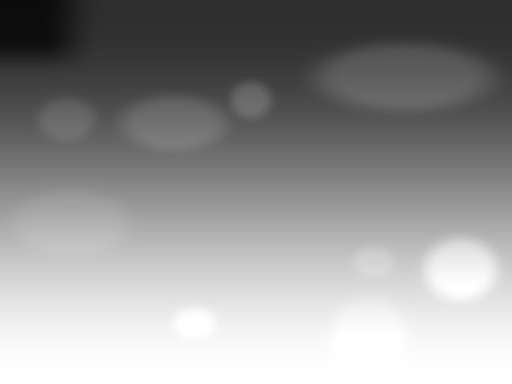
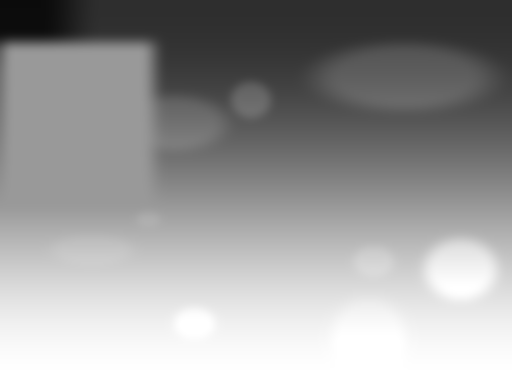
Η εταιρεία: step 1 is the first sketch on an iMac, photo, marker, depth map and copy

Changed region(s): [[0.0, 0.0938, 0.3125, 0.4688]]

diff --git a/src/i18n/pages/about.ts b/src/i18n/pages/about.ts
@@ -17,10 +17,10 @@ export const aboutText = {
      * four numbered points listed beside it (`lead` in bold, then `text`).
      */
     workbench: {
-      alt: 'Το τραπέζι εργασίας του τυπογραφείου: ένα σκίτσο λογοτύπου σε μπλοκ, τρεις τυπωμένες προτάσεις, δείγματα χρωμάτων και ένα δοκιμαστικό, ανάμεσα σε έτοιμες δουλειές: κάρτες, μπλουζάκι, κούπα, αυτοκόλλητα, πανό, ανάγλυφο προσκλητήριο, 3D εκτυπώσεις και μια ανάρτηση στο κινητό.',
+      alt: 'Το τραπέζι εργασίας του τυπογραφείου: ένα iMac με το πρώτο σχέδιο ενός λογοτύπου στην οθόνη, τρεις τυπωμένες προτάσεις, δείγματα χρωμάτων και ένα δοκιμαστικό, ανάμεσα σε έτοιμες δουλειές: κάρτες, μπλουζάκι, κούπα, αυτοκόλλητα, πανό, ανάγλυφο προσκλητήριο, 3D εκτυπώσεις και μια ανάρτηση στο κινητό.',
       stepsLabel: 'Από το σκίτσο στο δοκιμαστικό',
       steps: [
-        { lead: 'Η πρώτη ιδέα,', text: 'με μολύβι, πάνω στο τραπέζι.' },
+        { lead: 'Η πρώτη ιδέα,', text: 'σχεδιασμένη στον υπολογιστή.' },
         { lead: 'Προτάσεις', text: 'για το σήμα σας, σε χαρτί.' },
         { lead: 'Τα χρώματα', text: 'που διαλέγουμε μαζί.' },
         { lead: 'Το δοκιμαστικό', text: 'που εγκρίνετε πριν τυπώσουμε.' },

diff --git a/CONTENT_REVIEW.md b/CONTENT_REVIEW.md
@@ -241,29 +241,29 @@ Every Greek string on the site that is **not** the owner’s own wording, for th
 
 ## `src/i18n/pages/about.ts` — `aboutText`
 
-| Key                                | Text                                                                                                                                                                                                                                                                               |
-| ---------------------------------- | ---------------------------------------------------------------------------------------------------------------------------------------------------------------------------------------------------------------------------------------------------------------------------------- |
-| `metaTitle`                        | Η εταιρεία: διαφήμιση & εκτυπώσεις                                                                                                                                                                                                                                                 |
-| `metaDescription`                  | Η ΔΙΑΤΥΠΩΣΗ δίνει μορφή στις ιδέες σας με λύσεις διαφήμισης, εκτύπωσης και προβολής, με ποιότητα, συνέπεια και προσωπική εξυπηρέτηση. Γνωρίστε μας.                                                                                                                                |
-| `headerLabel`                      | Η εταιρεία                                                                                                                                                                                                                                                                         |
-| `headerTitle`                      | Από την ιδέα στο χαρτί, μαζί σας                                                                                                                                                                                                                                                   |
-| `approachHeading`                  | Πώς δουλεύουμε                                                                                                                                                                                                                                                                     |
-| `workbench.alt`                    | Το τραπέζι εργασίας του τυπογραφείου: ένα σκίτσο λογοτύπου σε μπλοκ, τρεις τυπωμένες προτάσεις, δείγματα χρωμάτων και ένα δοκιμαστικό, ανάμεσα σε έτοιμες δουλειές: κάρτες, μπλουζάκι, κούπα, αυτοκόλλητα, πανό, ανάγλυφο προσκλητήριο, 3D εκτυπώσεις και μια ανάρτηση στο κινητό. |
-| `workbench.stepsLabel`             | Από το σκίτσο στο δοκιμαστικό                                                                                                                                                                                                                                                      |
-| `workbench.steps[0].lead`          | Η πρώτη ιδέα,                                                                                                                                                                                                                                                                      |
-| `workbench.steps[0].text`          | με μολύβι, πάνω στο τραπέζι.                                                                                                                                                                                                                                                       |
-| `workbench.steps[1].lead`          | Προτάσεις                                                                                                                                                                                                                                                                          |
-| `workbench.steps[1].text`          | για το σήμα σας, σε χαρτί.                                                                                                                                                                                                                                                         |
-| `workbench.steps[2].lead`          | Τα χρώματα                                                                                                                                                                                                                                                                         |
-| `workbench.steps[2].text`          | που διαλέγουμε μαζί.                                                                                                                                                                                                                                                               |
-| `workbench.steps[3].lead`          | Το δοκιμαστικό                                                                                                                                                                                                                                                                     |
-| `workbench.steps[3].text`          | που εγκρίνετε πριν τυπώσουμε.                                                                                                                                                                                                                                                      |
-| `valuesLabel`                      | Οι αξίες μας                                                                                                                                                                                                                                                                       |
-| `valuesTitle`                      | Ό,τι μας καθοδηγεί σε κάθε δουλειά                                                                                                                                                                                                                                                 |
-| `valueNotes.Ποιότητα`              | Προσέχουμε την πρώτη ύλη, το χρώμα και κάθε λεπτομέρεια, ώστε το αποτέλεσμα να σας εκπροσωπεί σωστά.                                                                                                                                                                               |
-| `valueNotes.Συνέπεια`              | Τηρούμε ό,τι συμφωνούμε μαζί σας, από την πρώτη κουβέντα μέχρι την παράδοση.                                                                                                                                                                                                       |
-| `valueNotes.Δημιουργικότητα`       | Αναζητούμε την ιδέα που θα κάνει τη δική σας δουλειά να ξεχωρίζει.                                                                                                                                                                                                                 |
-| `valueNotes.Προσωπική εξυπηρέτηση` | Σας ακούμε και σας συμβουλεύουμε σε κάθε βήμα, για κάθε δουλειά, μικρή ή μεγάλη.                                                                                                                                                                                                   |
+| Key                                | Text                                                                                                                                                                                                                                                                                                       |
+| ---------------------------------- | ---------------------------------------------------------------------------------------------------------------------------------------------------------------------------------------------------------------------------------------------------------------------------------------------------------- |
+| `metaTitle`                        | Η εταιρεία: διαφήμιση & εκτυπώσεις                                                                                                                                                                                                                                                                         |
+| `metaDescription`                  | Η ΔΙΑΤΥΠΩΣΗ δίνει μορφή στις ιδέες σας με λύσεις διαφήμισης, εκτύπωσης και προβολής, με ποιότητα, συνέπεια και προσωπική εξυπηρέτηση. Γνωρίστε μας.                                                                                                                                                        |
+| `headerLabel`                      | Η εταιρεία                                                                                                                                                                                                                                                                                                 |
+| `headerTitle`                      | Από την ιδέα στο χαρτί, μαζί σας                                                                                                                                                                                                                                                                           |
+| `approachHeading`                  | Πώς δουλεύουμε                                                                                                                                                                                                                                                                                             |
+| `workbench.alt`                    | Το τραπέζι εργασίας του τυπογραφείου: ένα iMac με το πρώτο σχέδιο ενός λογοτύπου στην οθόνη, τρεις τυπωμένες προτάσεις, δείγματα χρωμάτων και ένα δοκιμαστικό, ανάμεσα σε έτοιμες δουλειές: κάρτες, μπλουζάκι, κούπα, αυτοκόλλητα, πανό, ανάγλυφο προσκλητήριο, 3D εκτυπώσεις και μια ανάρτηση στο κινητό. |
+| `workbench.stepsLabel`             | Από το σκίτσο στο δοκιμαστικό                                                                                                                                                                                                                                                                              |
+| `workbench.steps[0].lead`          | Η πρώτη ιδέα,                                                                                                                                                                                                                                                                                              |
+| `workbench.steps[0].text`          | σχεδιασμένη στον υπολογιστή.                                                                                                                                                                                                                                                                               |
+| `workbench.steps[1].lead`          | Προτάσεις                                                                                                                                                                                                                                                                                                  |
+| `workbench.steps[1].text`          | για το σήμα σας, σε χαρτί.                                                                                                                                                                                                                                                                                 |
+| `workbench.steps[2].lead`          | Τα χρώματα                                                                                                                                                                                                                                                                                                 |
+| `workbench.steps[2].text`          | που διαλέγουμε μαζί.                                                                                                                                                                                                                                                                                       |
+| `workbench.steps[3].lead`          | Το δοκιμαστικό                                                                                                                                                                                                                                                                                             |
+| `workbench.steps[3].text`          | που εγκρίνετε πριν τυπώσουμε.                                                                                                                                                                                                                                                                              |
+| `valuesLabel`                      | Οι αξίες μας                                                                                                                                                                                                                                                                                               |
+| `valuesTitle`                      | Ό,τι μας καθοδηγεί σε κάθε δουλειά                                                                                                                                                                                                                                                                         |
+| `valueNotes.Ποιότητα`              | Προσέχουμε την πρώτη ύλη, το χρώμα και κάθε λεπτομέρεια, ώστε το αποτέλεσμα να σας εκπροσωπεί σωστά.                                                                                                                                                                                                       |
+| `valueNotes.Συνέπεια`              | Τηρούμε ό,τι συμφωνούμε μαζί σας, από την πρώτη κουβέντα μέχρι την παράδοση.                                                                                                                                                                                                                               |
+| `valueNotes.Δημιουργικότητα`       | Αναζητούμε την ιδέα που θα κάνει τη δική σας δουλειά να ξεχωρίζει.                                                                                                                                                                                                                                         |
+| `valueNotes.Προσωπική εξυπηρέτηση` | Σας ακούμε και σας συμβουλεύουμε σε κάθε βήμα, για κάθε δουλειά, μικρή ή μεγάλη.                                                                                                                                                                                                                           |
 
 ## `src/i18n/pages/contact.ts` — `contactText`
 

diff --git a/CREDITS.md b/CREDITS.md
@@ -73,7 +73,10 @@ shows a print studio's work table with fictional shape-only logos, not real work
 label “Ενδεικτική εικόνα”. The tiny illegible text the model put on the cards, the invitation,
 the proof and the colour chips was removed by a second Seedream pass with the first image as the
 reference (same composition, text removed); two colour-chip labels and the out-of-focus phone
-clock keep faint, unreadable traces. The four numbered markers are drawn by the page
+clock keep faint, unreadable traces. On 2026-11-25 a third Seedream pass with that photo as the reference replaced the
+sketchbook and pencil on the left with an iMac running vector design software (the first sketch of
+the wheat logo on screen), keeping the rest of the table; the interface labels on the screen are
+tiny and unreadable. The four numbered markers are drawn by the page
 (`src/components/about/Workbench.astro`), at fixed percentages of this exact image: a replacement
 photo needs new marker positions. Its depth map for the parallax scene,
 `src/assets/about/workbench-depth.png`, is not AI-generated: `scripts/workbench-depth.mjs` computes
